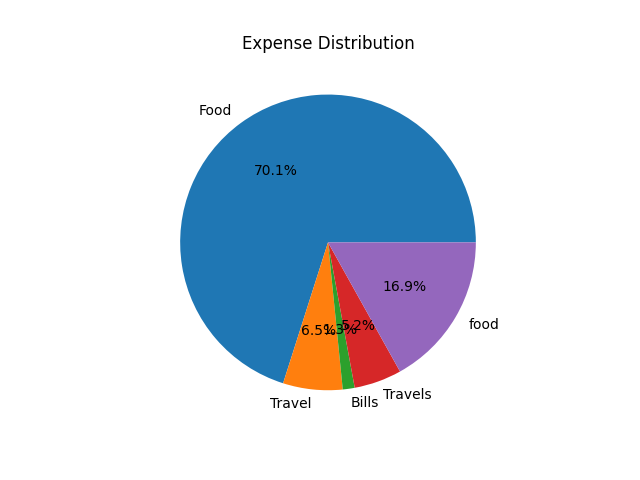
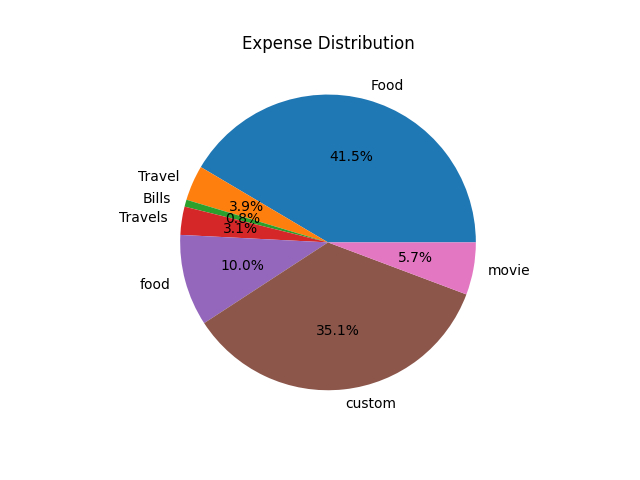
feat(ui): add category dropdown with custom category support and move frontend logic to external scripts.js

diff --git a/templates/index.html b/templates/index.html
@@ -20,12 +20,29 @@
           required
         />
 
+        <select
+          name="category"
+          id="categorySelect"
+          class="w-full p-2 border rounded"
+          onchange="toggleCustomCategory()"
+          required
+        >
+          <option value="">Select Category</option>
+          <option value="food">Food</option>
+          <option value="travel">Travel</option>
+          <option value="bills">Bills</option>
+          <option value="shopping">Shopping</option>
+          <option value="entertainment">Entertainment</option>
+          <option value="health">Health</option>
+          <option value="custom">Custom Category</option>
+        </select>
+
         <input
           type="text"
-          name="category"
-          placeholder="Category"
-          class="w-full p-2 border rounded"
-          required
+          id="customCategory"
+          name="custom_category"
+          placeholder="Enter custom category"
+          class="w-full p-2 border rounded mt-2 hidden"
         />
 
         <input
@@ -119,5 +136,6 @@
         />
       </div>
     </div>
+    <script src="{{ url_for('static', filename='scripts.js') }}"></script>
   </body>
 </html>

diff --git a/static/scripts.js b/static/scripts.js
@@ -1,0 +1,10 @@
+const toggleCustomCategory = () => {
+  const select = document.querySelector("#categorySelect");
+  const custom = document.querySelector("#customCategory");
+
+  if (select.value === "custom") {
+    custom.classList.remove("hidden");
+  } else {
+    custom.classList.add("hidden");
+  }
+};

diff --git a/app.py b/app.py
@@ -1,5 +1,7 @@
 from flask import Flask, request, jsonify, render_template, redirect
 from config import Config
+from datetime import datetime
+
 from services import (
     add_expense,
     get_all_expenses,
@@ -13,7 +15,6 @@ from services import (
     load_budgets,
     save_budgets,
 )
-from datetime import datetime
 
 
 app = Flask(__name__)
@@ -27,7 +28,7 @@ def home():
     insights = generate_advanced_insights()
     budget_insights = generate_insights()
 
-    all_insights = insights + budget_insights  # 🔥 combine properly
+    all_insights = insights + budget_insights
 
     generate_pie_chart()
     generate_line_chart()
@@ -42,9 +43,14 @@ def create_expense():
     if not date:
         date = datetime.now().strftime("%Y-%m-%d")
 
+    category = request.form.get("category")
+
+    if category == "custom":
+        category = request.form.get("custom_category").strip().lower()
+
     data = {
         "amount": int(request.form.get("amount")),
-        "category": request.form.get("category"),
+        "category": category,
         "description": request.form.get("description"),
         "date": date,
     }
